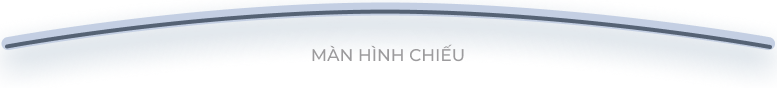
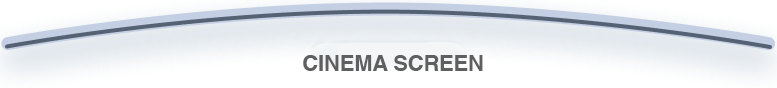
feat: change language option to dropdown menu

Changed region(s): [[0.3707, 0.5227, 0.6486, 0.8182]]

diff --git a/src/main/resources/templates/movies.html b/src/main/resources/templates/movies.html
@@ -23,7 +23,7 @@
     <div class="container-xl">
         <div class="row text-center">
             <div class="col-md-12">
-                <h2 class="fw-bold text-dark">Tất Cả Phim</h2>
+                <h2 class="fw-bold text-dark">Movies</h2>
                 <h6 class="mb-0 mt-2 fw-normal">
                     <a class="text-primary text-decoration-none fw-bold" th:href="@{/}">Home</a>
                     <span class="mx-2 text-muted">/</span> <span class="text-muted">Movies</span>
@@ -43,20 +43,25 @@
                     <input type="text" id="searchTitle" class="form-control border-start-0 filter-element" placeholder="Search title...">
                 </div>
             </div>
-            <div class="col-md-3 col-sm-6 mb-3 mb-md-0">
-                <div class="input-group">
-                    <span class="input-group-text bg-white border-end-0"><i class="fa fa-globe text-muted"></i></span>
-                    <input type="text" id="searchLanguage" class="form-control border-start-0 filter-element" placeholder="Language...">
-                </div>
+            <div class="col-md-2 col-sm-4 mb-2 mb-md-0">
+                <select id="searchLanguage" class="form-select filter-element">
+                    <option value="">All Languages</option>
+                    <option value="Vietnamese">Vietnamese</option>
+                    <option value="English">English</option>
+                    <option value="Korean">Korean</option>
+                    <option value="Japanese">Japanese</option>
+                    <option value="Chinese">Chinese</option>
+                    <option value="Thai">Thai</option>
+                    <option value="Other">Other</option> </select>
             </div>
             <div class="col-md-2 col-sm-4 mb-2 mb-md-0">
                 <select id="filterCategory" class="form-select filter-element">
-                    <option value="">-- All Categories --</option>
+                    <option value="">All Categories</option>
                 </select>
             </div>
             <div class="col-md-2 col-sm-4 mb-2 mb-md-0">
                 <select id="filterStatus" class="form-select filter-element">
-                    <option value="">-- All Status --</option>
+                    <option value="">All Status</option>
                     <option value="Coming Soon">Coming Soon</option>
                     <option value="Now Playing">Now Playing</option>
                     <option value="Pending">Pending</option>

diff --git a/src/main/resources/templates/admin/searchMovie.html b/src/main/resources/templates/admin/searchMovie.html
@@ -37,13 +37,13 @@
                 <div class="col-md-4">
                     <label class="form-label fw-bold text-secondary small mb-1">Category</label>
                     <select class="form-select form-select-sm" id="filterCategory">
-                        <option value="">-- All Categories --</option>
+                        <option value="">All Categories</option>
                     </select>
                 </div>
                 <div class="col-md-3">
                     <label class="form-label fw-bold text-secondary small mb-1">Status</label>
                     <select class="form-select form-select-sm" id="filterStatus">
-                        <option value="">-- All Status --</option>
+                        <option value="">All Status</option>
                         <option value="Now Playing">Now Playing</option>
                         <option value="Coming Soon">Coming Soon</option>
                         <option value="Pending">Pending</option>

diff --git a/src/main/resources/static/js/movies.js b/src/main/resources/static/js/movies.js
@@ -11,7 +11,7 @@ document.addEventListener('DOMContentLoaded', async () => {
 
     // Tự động lọc khi gõ chữ (Title, Language)
     let typingTimer;
-    const textInputs = ['searchTitle', 'searchLanguage'];
+    const textInputs = ['searchTitle'];
     textInputs.forEach(id => {
         const element = document.getElementById(id);
         if (element) {
@@ -26,7 +26,7 @@ document.addEventListener('DOMContentLoaded', async () => {
     });
 
     // Tự động lọc khi đổi Dropdown (Category, Status, Sort)
-    const dropdownInputs = ['filterCategory', 'filterStatus', 'sortBy'];
+    const dropdownInputs = ['filterCategory', 'filterStatus', 'sortBy', 'searchLanguage'];
     dropdownInputs.forEach(id => {
         const element = document.getElementById(id);
         if (element) {

diff --git a/src/main/java/com/G7/CTBS/repository/MovieRepository.java b/src/main/java/com/G7/CTBS/repository/MovieRepository.java
@@ -1,7 +1,6 @@
 package com.G7.CTBS.repository;
 
 import com.G7.CTBS.entity.Movie;
-import org.springframework.data.domain.Sort;
 import org.springframework.data.jpa.repository.JpaRepository;
 import org.springframework.data.jpa.repository.Query;
 import org.springframework.data.repository.query.Param;
@@ -33,14 +32,16 @@ public interface MovieRepository extends JpaRepository<Movie, Long> {
             "    AND s.startTime <= :now AND s.endTime >= :now" +
             ")")
     List<Movie> findMoviesToPlay(@Param("now") LocalDateTime now);
-
+    
     @Query("SELECT m FROM Movie m " +
             "WHERE (:title IS NULL OR LOWER(m.title) LIKE LOWER(CONCAT('%', :title, '%'))) " +
             "AND (:categoryId IS NULL OR EXISTS (SELECT 1 FROM m.categories c WHERE c.categoryId = :categoryId)) " +
-            "AND (:language IS NULL OR LOWER(m.language) LIKE LOWER(CONCAT('%', :language, '%'))) " +
             "AND (:status IS NULL OR m.status = :status) " +
             "AND (CAST(:fromDate AS date) IS NULL OR m.releaseDate >= :fromDate) " +
-            "AND (CAST(:toDate AS date) IS NULL OR m.releaseDate <= :toDate)")
+            "AND (CAST(:toDate AS date) IS NULL OR m.releaseDate <= :toDate) " +
+            "AND (:language IS NULL " +
+            "     OR (:language = 'Other' AND m.language NOT IN ('Vietnamese', 'English', 'Korean', 'Japanese', 'Chinese', 'Thai')) " +
+            "     OR (:language != 'Other' AND LOWER(m.language) LIKE LOWER(CONCAT('%', :language, '%'))))")
     List<Movie> searchMovies(@Param("title") String title,
                              @Param("categoryId") Long categoryId,
                              @Param("language") String language,

diff --git a/src/main/java/com/G7/CTBS/dto/DashboardResponseDTO.java b/src/main/java/com/G7/CTBS/dto/DashboardResponseDTO.java
@@ -9,7 +9,6 @@ public class DashboardResponseDTO {
     private Integer totalTickets;
     private String topMovieName;
     private Integer totalCombos;
-    
     private ChartData topMovies;
     private ChartData combos;
     private ChartData peakHours;
